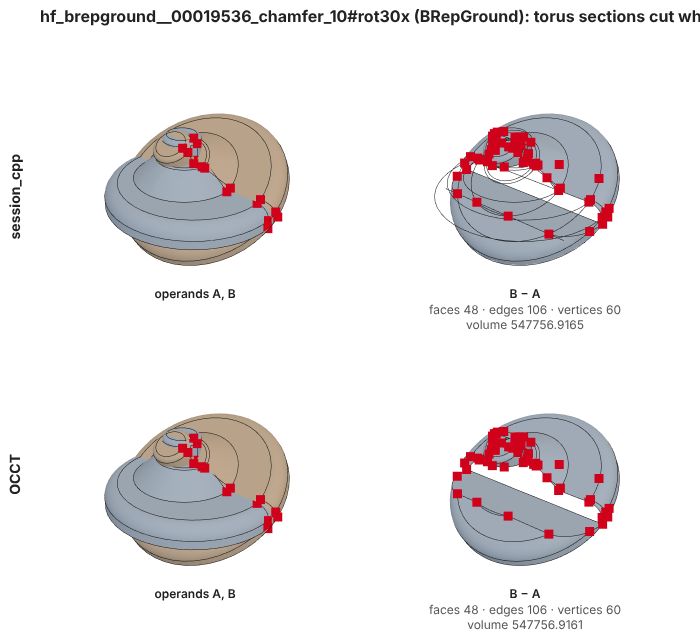
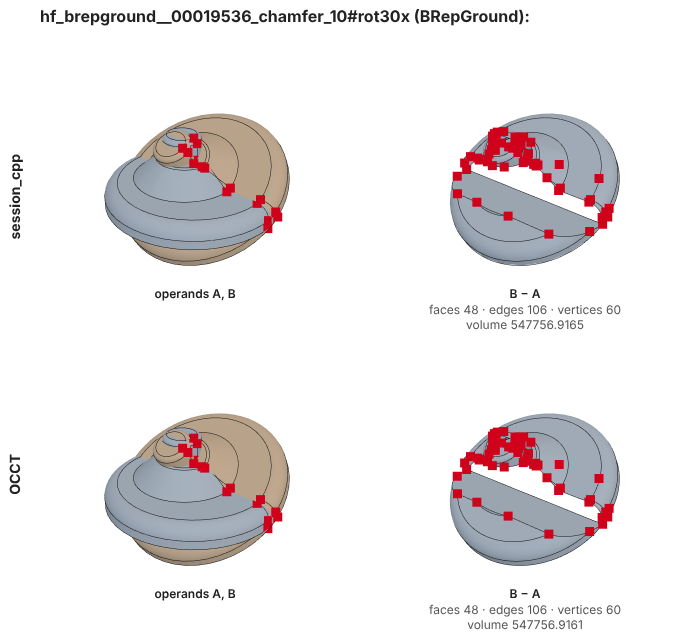
docs: pictures draw each edge over its own range, not the whole shared curve

diff --git a/docs/validation/score/score_drv.cpp b/docs/validation/score/score_drv.cpp
@@ -150,9 +150,10 @@ static std::string dump(const BRep& r) {
     }
     o << "],\"idx\":[" << idx.str() << "],\"edges\":[";
     first = true;
-    for (const BRepEdge& e : r.m_edges) {
+    for (size_t ei = 0; ei < r.m_edges.size(); ++ei) {
+        const BRepEdge& e = r.m_edges[ei];
         if (e.degenerated || e.curve_3d_index < 0) continue;
-        const NurbsCurve& c = r.m_curves_3d[e.curve_3d_index].nurbs();
+        const NurbsCurve c = r.edge_nurbs(int(ei));
         const auto [t0, t1] = c.domain();
         o << (first ? "" : ",") << "[";
         first = false;
